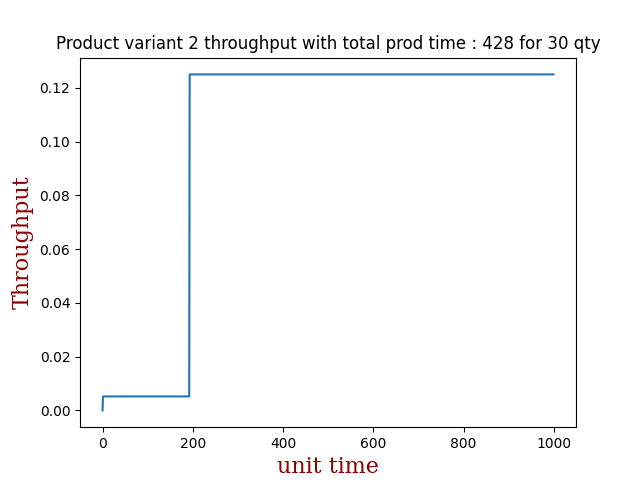
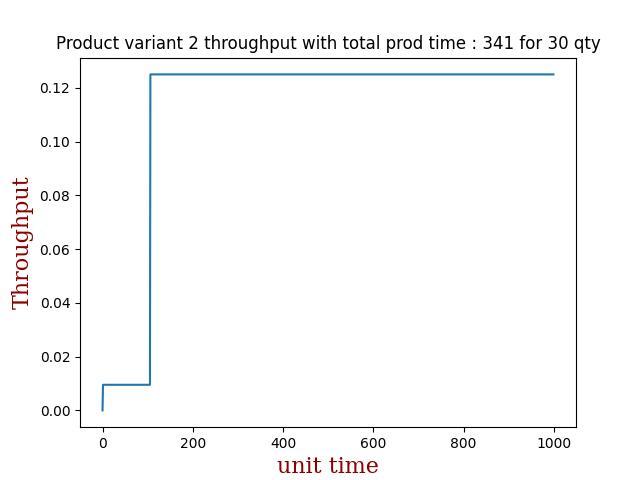
Bug solved in djiktra's fintess caluclation of total length: earlier default weight was used to calculate the shortest distance

diff --git a/main.py b/main.py
@@ -120,8 +120,8 @@ for pseq in Batch_sequence:
 tree_pos = []
 for i, chr_Tree in enumerate(random_pop):
     # pos= G_pos
-    pos = draw_hierarchy_pos(chr_Tree, root=1, width=grid_size, height=grid_size)
-    #pos = EoN.hierarchy_pos(chr_Tree, root=1, width=40)
+    #pos = draw_hierarchy_pos(chr_Tree, root=1, width=grid_size, height=grid_size)
+    pos = EoN.hierarchy_pos(chr_Tree, root=1, width=grid_size)
     #pos = hierarchy_pos3(chr_Tree,root=1,width=grid_size,xcenter=14)
     #pos = graphviz_layout(G, prog='dot')
     tree_pos.append(pos)
@@ -323,7 +323,9 @@ def genetic_stage2(parent1, parent2, gen):
     # print("resumed")
     ### Draw and calculate fitness function ####
     for i, off_tree in enumerate(logical_off):
-        pos_off = draw_hierarchy_pos(off_tree, root=1, width=grid_size, height=grid_size)
+        #pos_off = draw_hierarchy_pos(off_tree, root=1, width=grid_size, height=grid_size)
+
+        pos_off = EoN.hierarchy_pos(chr_Tree, root=1, width=grid_size)
         off_pos.append(pos_off)
         # pos_off = EoN.hierarchy_pos(off_tree, root=1, width=40)
         plt.figure()

diff --git a/Draw_heirachial_graph.py b/Draw_heirachial_graph.py
@@ -33,7 +33,7 @@ def draw_hierarchy_pos(G, root, levels=None, width=1., height=1.):
         neighbors = G.neighbors(node)
         for neighbor in neighbors:
             if not neighbor == parent:
-                pos = make_pos(pos, neighbor, currentLevel + 1, node, (vert_loc - vert_gap-2))
+                pos = make_pos(pos, neighbor, currentLevel + 1, node, vert_loc - vert_gap)
         return pos
 
     if levels is None:

diff --git a/Fitness_Function.py b/Fitness_Function.py
@@ -19,6 +19,7 @@ def fitness_function(T, batch_list, PI_weight,pos):
     Weighted_T.add_nodes_from(T.nodes())
     Weighted_T.add_edges_from(edge_dict)
     #print(Weighted_T.edges.data())
+
     for i in range(len(batch_list)):
         cost = 0.0
         cost2 = 0.0
